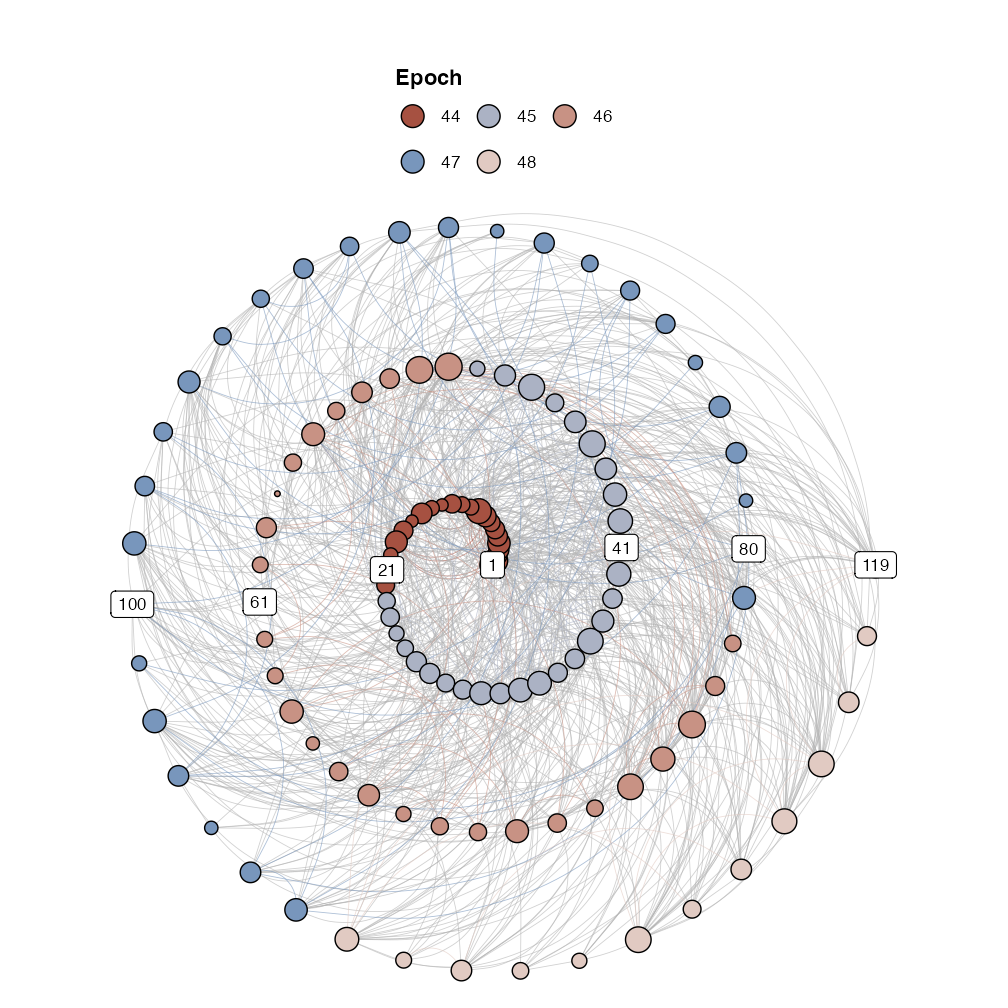
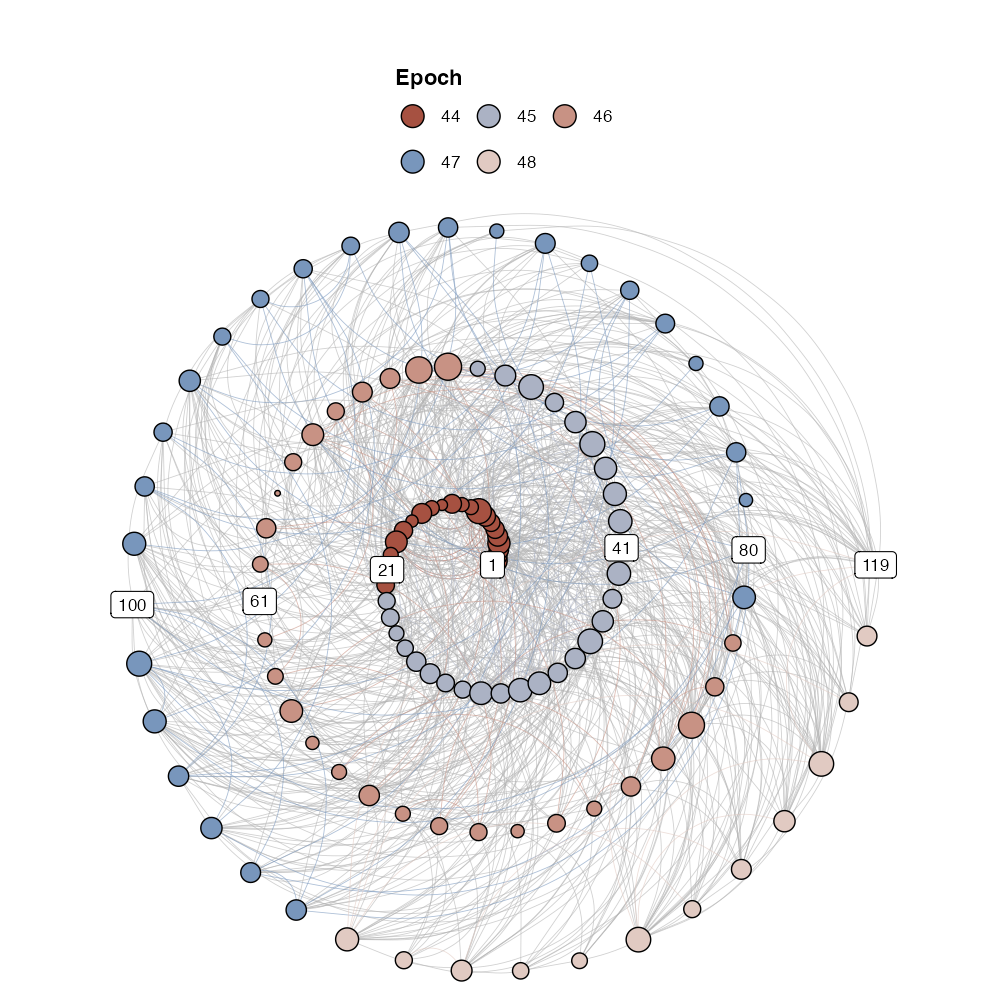
rp update

diff --git a/docs/articles/RecurrenceNetworks.html b/docs/articles/RecurrenceNetworks.html
@@ -186,15 +186,15 @@
 <span id="cb7-5"><a href="#cb7-5" aria-hidden="true" tabindex="-1"></a><span class="er">&gt;</span> <span class="er">~~~</span>o<span class="sc">~</span><span class="er">~</span>o<span class="sc">~</span><span class="er">~</span>casnet<span class="sc">~</span><span class="er">~</span>o<span class="sc">~</span><span class="er">~</span>o<span class="sc">~</span><span class="er">~~</span></span>
 <span id="cb7-6"><a href="#cb7-6" aria-hidden="true" tabindex="-1"></a><span class="er">&gt;</span>  Global Measures</span>
 <span id="cb7-7"><a href="#cb7-7" aria-hidden="true" tabindex="-1"></a><span class="sc">&gt;</span>   Global Max.points N.points    RR Singular Divergence Repetitiveness</span>
-<span id="cb7-8"><a href="#cb7-8" aria-hidden="true" tabindex="-1"></a><span class="sc">&gt;</span> <span class="dv">1</span> Matrix      <span class="dv">14161</span>     <span class="dv">1815</span> <span class="fl">0.128</span>     <span class="dv">1224</span>     <span class="fl">0.0084</span>           <span class="fl">2.23</span></span>
+<span id="cb7-8"><a href="#cb7-8" aria-hidden="true" tabindex="-1"></a><span class="sc">&gt;</span> <span class="dv">1</span> Matrix      <span class="dv">14161</span>     <span class="dv">1741</span> <span class="fl">0.123</span>     <span class="dv">1220</span>     <span class="fl">0.0084</span>           <span class="fl">2.36</span></span>
 <span id="cb7-9"><a href="#cb7-9" aria-hidden="true" tabindex="-1"></a><span class="sc">&gt;</span> </span>
 <span id="cb7-10"><a href="#cb7-10" aria-hidden="true" tabindex="-1"></a><span class="er">&gt;</span> </span>
 <span id="cb7-11"><a href="#cb7-11" aria-hidden="true" tabindex="-1"></a><span class="er">&gt;</span>  Line<span class="sc">-</span>based Measures</span>
 <span id="cb7-12"><a href="#cb7-12" aria-hidden="true" tabindex="-1"></a><span class="sc">&gt;</span>        Lines N.lines N.points Measure  Rate Mean Max.   ENT ENT_rel   CoV</span>
-<span id="cb7-13"><a href="#cb7-13" aria-hidden="true" tabindex="-1"></a><span class="sc">&gt;</span> <span class="dv">1</span>   Diagonal     <span class="dv">211</span>      <span class="dv">591</span>     DET <span class="fl">0.326</span> <span class="fl">2.80</span>  <span class="dv">119</span> <span class="fl">0.512</span>   <span class="fl">0.107</span> <span class="fl">2.890</span></span>
-<span id="cb7-14"><a href="#cb7-14" aria-hidden="true" tabindex="-1"></a><span class="sc">&gt;</span> <span class="dv">2</span>   Vertical     <span class="dv">292</span>      <span class="dv">660</span>   V LAM <span class="fl">0.364</span> <span class="fl">2.26</span>    <span class="dv">6</span> <span class="fl">0.631</span>   <span class="fl">0.132</span> <span class="fl">0.280</span></span>
-<span id="cb7-15"><a href="#cb7-15" aria-hidden="true" tabindex="-1"></a><span class="sc">&gt;</span> <span class="dv">3</span> Horizontal     <span class="dv">292</span>      <span class="dv">660</span>   H LAM <span class="fl">0.364</span> <span class="fl">2.26</span>    <span class="dv">6</span> <span class="fl">0.631</span>   <span class="fl">0.132</span> <span class="fl">0.280</span></span>
-<span id="cb7-16"><a href="#cb7-16" aria-hidden="true" tabindex="-1"></a><span class="sc">&gt;</span> <span class="dv">4</span>  V<span class="sc">+</span>H Total     <span class="dv">584</span>     <span class="dv">1320</span> V<span class="sc">+</span>H LAM <span class="fl">0.364</span> <span class="fl">2.26</span>    <span class="dv">6</span> <span class="fl">0.631</span>   <span class="fl">0.132</span> <span class="fl">0.279</span></span>
+<span id="cb7-13"><a href="#cb7-13" aria-hidden="true" tabindex="-1"></a><span class="sc">&gt;</span> <span class="dv">1</span>   Diagonal     <span class="dv">177</span>      <span class="dv">521</span>     DET <span class="fl">0.299</span> <span class="fl">2.94</span>  <span class="dv">119</span> <span class="fl">0.564</span>   <span class="fl">0.118</span> <span class="fl">3.001</span></span>
+<span id="cb7-14"><a href="#cb7-14" aria-hidden="true" tabindex="-1"></a><span class="sc">&gt;</span> <span class="dv">2</span>   Vertical     <span class="dv">280</span>      <span class="dv">614</span>   V LAM <span class="fl">0.353</span> <span class="fl">2.19</span>    <span class="dv">6</span> <span class="fl">0.508</span>   <span class="fl">0.106</span> <span class="fl">0.250</span></span>
+<span id="cb7-15"><a href="#cb7-15" aria-hidden="true" tabindex="-1"></a><span class="sc">&gt;</span> <span class="dv">3</span> Horizontal     <span class="dv">280</span>      <span class="dv">614</span>   H LAM <span class="fl">0.353</span> <span class="fl">2.19</span>    <span class="dv">6</span> <span class="fl">0.508</span>   <span class="fl">0.106</span> <span class="fl">0.250</span></span>
+<span id="cb7-16"><a href="#cb7-16" aria-hidden="true" tabindex="-1"></a><span class="sc">&gt;</span> <span class="dv">4</span>  V<span class="sc">+</span>H Total     <span class="dv">560</span>     <span class="dv">1228</span> V<span class="sc">+</span>H LAM <span class="fl">0.353</span> <span class="fl">2.19</span>    <span class="dv">6</span> <span class="fl">0.508</span>   <span class="fl">0.106</span> <span class="fl">0.249</span></span>
 <span id="cb7-17"><a href="#cb7-17" aria-hidden="true" tabindex="-1"></a><span class="sc">&gt;</span> </span>
 <span id="cb7-18"><a href="#cb7-18" aria-hidden="true" tabindex="-1"></a><span class="er">&gt;</span> <span class="er">~~~</span>o<span class="sc">~</span><span class="er">~</span>o<span class="sc">~</span><span class="er">~</span>casnet<span class="sc">~</span><span class="er">~</span>o<span class="sc">~</span><span class="er">~</span>o<span class="sc">~</span><span class="er">~~</span></span>
 <span id="cb7-19"><a href="#cb7-19" aria-hidden="true" tabindex="-1"></a></span>
@@ -216,9 +216,9 @@
 <span id="cb8-9"><a href="#cb8-9" aria-hidden="true" tabindex="-1"></a><span class="er">&gt;</span> Global Network Measures</span>
 <span id="cb8-10"><a href="#cb8-10" aria-hidden="true" tabindex="-1"></a><span class="sc">&gt;</span> </span>
 <span id="cb8-11"><a href="#cb8-11" aria-hidden="true" tabindex="-1"></a><span class="er">&gt;</span>   EdgeDensity MeanStrengthDensity GlobalClustering NetworkTransitivity</span>
-<span id="cb8-12"><a href="#cb8-12" aria-hidden="true" tabindex="-1"></a><span class="sc">&gt;</span> <span class="dv">1</span>   <span class="fl">0.1207805</span>                  <span class="cn">NA</span>        <span class="fl">0.6870866</span>           <span class="fl">0.6780764</span></span>
+<span id="cb8-12"><a href="#cb8-12" aria-hidden="true" tabindex="-1"></a><span class="sc">&gt;</span> <span class="dv">1</span>   <span class="fl">0.1155106</span>                  <span class="cn">NA</span>        <span class="fl">0.6819117</span>           <span class="fl">0.6646402</span></span>
 <span id="cb8-13"><a href="#cb8-13" aria-hidden="true" tabindex="-1"></a><span class="sc">&gt;</span>   AveragePathLength GlobalEfficiency</span>
-<span id="cb8-14"><a href="#cb8-14" aria-hidden="true" tabindex="-1"></a><span class="sc">&gt;</span> <span class="dv">1</span>          <span class="fl">5.977211</span>         <span class="fl">2.840714</span></span>
+<span id="cb8-14"><a href="#cb8-14" aria-hidden="true" tabindex="-1"></a><span class="sc">&gt;</span> <span class="dv">1</span>          <span class="fl">5.926933</span>         <span class="fl">2.861346</span></span>
 <span id="cb8-15"><a href="#cb8-15" aria-hidden="true" tabindex="-1"></a><span class="sc">&gt;</span> </span>
 <span id="cb8-16"><a href="#cb8-16" aria-hidden="true" tabindex="-1"></a><span class="er">&gt;</span> <span class="er">~~~</span>o<span class="sc">~</span><span class="er">~</span>o<span class="sc">~</span><span class="er">~</span>casnet<span class="sc">~</span><span class="er">~</span>o<span class="sc">~</span><span class="er">~</span>o<span class="sc">~</span><span class="er">~~</span></span>
 <span id="cb8-17"><a href="#cb8-17" aria-hidden="true" tabindex="-1"></a></span>

diff --git a/docs/reference/bandReplace.html b/docs/reference/bandReplace.html
@@ -115,28 +115,28 @@
 <span class="r-in"></span>
 <span class="r-in"><span class="fu">bandReplace</span><span class="op">(</span><span class="va">m</span>,<span class="op">-</span><span class="fl">1</span>,<span class="fl">1</span>,<span class="fl">0</span><span class="op">)</span>   <span class="co"># Replace diagonal and adjacent bands with 0 (Theiler window of 1)</span></span>
 <span class="r-out co"><span class="r-pr">#&gt;</span> 10 x 10 sparse Matrix of class "dgCMatrix"</span>
-<span class="r-out co"><span class="r-pr">#&gt;</span>                                                                            </span>
-<span class="r-out co"><span class="r-pr">#&gt;</span>  [1,]  .          .          0.03679358  0.03679358  0.03679358  0.03679358</span>
-<span class="r-out co"><span class="r-pr">#&gt;</span>  [2,]  .          .          .          -0.17680032 -0.17680032 -0.17680032</span>
-<span class="r-out co"><span class="r-pr">#&gt;</span>  [3,] -0.4185294  .          .           .          -0.41852936 -0.41852936</span>
-<span class="r-out co"><span class="r-pr">#&gt;</span>  [4,] -0.5376333 -0.5376333  .           .           .          -0.53763329</span>
-<span class="r-out co"><span class="r-pr">#&gt;</span>  [5,] -0.2396185 -0.2396185 -0.23961850  .           .           .         </span>
-<span class="r-out co"><span class="r-pr">#&gt;</span>  [6,]  0.6451261  0.6451261  0.64512606  0.64512606  .           .         </span>
-<span class="r-out co"><span class="r-pr">#&gt;</span>  [7,] -1.5134342 -1.5134342 -1.51343424 -1.51343424 -1.51343424  .         </span>
-<span class="r-out co"><span class="r-pr">#&gt;</span>  [8,] -0.2137182 -0.2137182 -0.21371821 -0.21371821 -0.21371821 -0.21371821</span>
-<span class="r-out co"><span class="r-pr">#&gt;</span>  [9,]  0.4949470  0.4949470  0.49494698  0.49494698  0.49494698  0.49494698</span>
-<span class="r-out co"><span class="r-pr">#&gt;</span> [10,]  0.8303006  0.8303006  0.83030063  0.83030063  0.83030063  0.83030063</span>
-<span class="r-out co"><span class="r-pr">#&gt;</span>                                                      </span>
-<span class="r-out co"><span class="r-pr">#&gt;</span>  [1,]  0.03679358  0.03679358  0.03679358  0.03679358</span>
-<span class="r-out co"><span class="r-pr">#&gt;</span>  [2,] -0.17680032 -0.17680032 -0.17680032 -0.17680032</span>
-<span class="r-out co"><span class="r-pr">#&gt;</span>  [3,] -0.41852936 -0.41852936 -0.41852936 -0.41852936</span>
-<span class="r-out co"><span class="r-pr">#&gt;</span>  [4,] -0.53763329 -0.53763329 -0.53763329 -0.53763329</span>
-<span class="r-out co"><span class="r-pr">#&gt;</span>  [5,] -0.23961850 -0.23961850 -0.23961850 -0.23961850</span>
-<span class="r-out co"><span class="r-pr">#&gt;</span>  [6,]  .           0.64512606  0.64512606  0.64512606</span>
-<span class="r-out co"><span class="r-pr">#&gt;</span>  [7,]  .           .          -1.51343424 -1.51343424</span>
-<span class="r-out co"><span class="r-pr">#&gt;</span>  [8,]  .           .           .          -0.21371821</span>
-<span class="r-out co"><span class="r-pr">#&gt;</span>  [9,]  0.49494698  .           .           .         </span>
-<span class="r-out co"><span class="r-pr">#&gt;</span> [10,]  0.83030063  0.83030063  .           .         </span>
+<span class="r-out co"><span class="r-pr">#&gt;</span>                                                                        </span>
+<span class="r-out co"><span class="r-pr">#&gt;</span>  [1,]  .          .         -0.6091668 -0.6091668 -0.6091668 -0.6091668</span>
+<span class="r-out co"><span class="r-pr">#&gt;</span>  [2,]  .          .          .         -0.8998949 -0.8998949 -0.8998949</span>
+<span class="r-out co"><span class="r-pr">#&gt;</span>  [3,]  0.7485807  .          .          .          0.7485807  0.7485807</span>
+<span class="r-out co"><span class="r-pr">#&gt;</span>  [4,]  1.1334360  1.1334360  .          .          .          1.1334360</span>
+<span class="r-out co"><span class="r-pr">#&gt;</span>  [5,] -1.2001478 -1.2001478 -1.2001478  .          .          .        </span>
+<span class="r-out co"><span class="r-pr">#&gt;</span>  [6,]  0.7164424  0.7164424  0.7164424  0.7164424  .          .        </span>
+<span class="r-out co"><span class="r-pr">#&gt;</span>  [7,] -1.0455786 -1.0455786 -1.0455786 -1.0455786 -1.0455786  .        </span>
+<span class="r-out co"><span class="r-pr">#&gt;</span>  [8,]  0.3057090  0.3057090  0.3057090  0.3057090  0.3057090  0.3057090</span>
+<span class="r-out co"><span class="r-pr">#&gt;</span>  [9,] -0.3727348 -0.3727348 -0.3727348 -0.3727348 -0.3727348 -0.3727348</span>
+<span class="r-out co"><span class="r-pr">#&gt;</span> [10,]  0.1182736  0.1182736  0.1182736  0.1182736  0.1182736  0.1182736</span>
+<span class="r-out co"><span class="r-pr">#&gt;</span>                                                  </span>
+<span class="r-out co"><span class="r-pr">#&gt;</span>  [1,] -0.6091668 -0.6091668 -0.6091668 -0.6091668</span>
+<span class="r-out co"><span class="r-pr">#&gt;</span>  [2,] -0.8998949 -0.8998949 -0.8998949 -0.8998949</span>
+<span class="r-out co"><span class="r-pr">#&gt;</span>  [3,]  0.7485807  0.7485807  0.7485807  0.7485807</span>
+<span class="r-out co"><span class="r-pr">#&gt;</span>  [4,]  1.1334360  1.1334360  1.1334360  1.1334360</span>
+<span class="r-out co"><span class="r-pr">#&gt;</span>  [5,] -1.2001478 -1.2001478 -1.2001478 -1.2001478</span>
+<span class="r-out co"><span class="r-pr">#&gt;</span>  [6,]  .          0.7164424  0.7164424  0.7164424</span>
+<span class="r-out co"><span class="r-pr">#&gt;</span>  [7,]  .          .         -1.0455786 -1.0455786</span>
+<span class="r-out co"><span class="r-pr">#&gt;</span>  [8,]  .          .          .          0.3057090</span>
+<span class="r-out co"><span class="r-pr">#&gt;</span>  [9,] -0.3727348  .          .          .        </span>
+<span class="r-out co"><span class="r-pr">#&gt;</span> [10,]  0.1182736  0.1182736  .          .        </span>
 </code></pre></div>
     </div>
   </div>

diff --git a/docs/reference/as.numeric_discrete.html b/docs/reference/as.numeric_discrete.html
@@ -92,22 +92,22 @@
 <span class="r-in"><span class="co"># Continuous</span></span>
 <span class="r-in"><span class="va">i</span> <span class="op">&lt;-</span> <span class="fu"><a href="https://rdrr.io/r/stats/Uniform.html" class="external-link">runif</a></span><span class="op">(</span><span class="fl">10</span>,<span class="fl">0</span>,<span class="fl">9</span><span class="op">)</span></span>
 <span class="r-in"><span class="fu">as.numeric_discrete</span><span class="op">(</span><span class="va">i</span><span class="op">)</span></span>
-<span class="r-out co"><span class="r-pr">#&gt;</span>   6.59  3.298  6.125  8.394 0.3611  8.561  5.577  3.149  6.534  4.561 </span>
-<span class="r-out co"><span class="r-pr">#&gt;</span>      4      2      4      5      1      5      4      2      4      3 </span>
+<span class="r-out co"><span class="r-pr">#&gt;</span>  3.202  7.723  0.447  7.575  6.542  5.151  6.077 0.2053  5.261 0.3174 </span>
+<span class="r-out co"><span class="r-pr">#&gt;</span>      2      5      1      5      5      4      4      1      4      1 </span>
 <span class="r-in"></span>
 <span class="r-in"><span class="co"># Integer</span></span>
 <span class="r-in"><span class="fu">as.numeric_discrete</span><span class="op">(</span><span class="fu"><a href="https://rdrr.io/r/base/Round.html" class="external-link">round</a></span><span class="op">(</span><span class="va">i</span><span class="op">)</span><span class="op">)</span></span>
-<span class="r-out co"><span class="r-pr">#&gt;</span> 7 3 6 8 0 9 6 3 7 5 </span>
-<span class="r-out co"><span class="r-pr">#&gt;</span> 7 3 6 8 0 9 6 3 7 5 </span>
+<span class="r-out co"><span class="r-pr">#&gt;</span> 3 8 0 8 7 5 6 0 5 0 </span>
+<span class="r-out co"><span class="r-pr">#&gt;</span> 3 8 0 8 7 5 6 0 5 0 </span>
 <span class="r-in"></span>
 <span class="r-in"><span class="co"># Factor with NAs</span></span>
 <span class="r-in"><span class="va">f</span> <span class="op">&lt;-</span> <span class="fu"><a href="https://rdrr.io/r/base/factor.html" class="external-link">factor</a></span><span class="op">(</span><span class="fu"><a href="https://rdrr.io/r/base/c.html" class="external-link">c</a></span><span class="op">(</span><span class="fu"><a href="https://rdrr.io/r/base/Round.html" class="external-link">round</a></span><span class="op">(</span><span class="fu"><a href="https://rdrr.io/r/stats/Uniform.html" class="external-link">runif</a></span><span class="op">(</span><span class="fl">9</span>,<span class="fl">0</span>,<span class="fl">9</span><span class="op">)</span><span class="op">)</span>,<span class="cn">NA</span><span class="op">)</span><span class="op">)</span></span>
 <span class="r-in"><span class="fu">as.numeric_discrete</span><span class="op">(</span><span class="va">f</span><span class="op">)</span></span>
-<span class="r-out co"><span class="r-pr">#&gt;</span> 7 0 6 2 6 1 5 4 4 </span>
-<span class="r-out co"><span class="r-pr">#&gt;</span> 7 0 6 2 6 1 5 4 4 </span>
+<span class="r-out co"><span class="r-pr">#&gt;</span> 7 5 0 8 8 4 7 4 1 </span>
+<span class="r-out co"><span class="r-pr">#&gt;</span> 7 5 0 8 8 4 7 4 1 </span>
 <span class="r-in"><span class="fu">as.numeric_discrete</span><span class="op">(</span><span class="va">f</span>, keepNA <span class="op">=</span> <span class="cn">FALSE</span><span class="op">)</span></span>
-<span class="r-out co"><span class="r-pr">#&gt;</span> 7 0 6 2 6 1 5 4 4 </span>
-<span class="r-out co"><span class="r-pr">#&gt;</span> 7 0 6 2 6 1 5 4 4 </span>
+<span class="r-out co"><span class="r-pr">#&gt;</span> 7 5 0 8 8 4 7 4 1 </span>
+<span class="r-out co"><span class="r-pr">#&gt;</span> 7 5 0 8 8 4 7 4 1 </span>
 <span class="r-in"></span>
 <span class="r-in"><span class="co"># Character vector</span></span>
 <span class="r-in"><span class="va">c</span> <span class="op">&lt;-</span> <span class="fu"><a href="https://rdrr.io/r/base/c.html" class="external-link">c</a></span><span class="op">(</span><span class="st">"Thank"</span>,<span class="st">"you"</span>, <span class="st">"for"</span>, <span class="st">"the flowers"</span><span class="op">)</span></span>

diff --git a/docs/reference/as.numeric_factor.html b/docs/reference/as.numeric_factor.html
@@ -91,17 +91,17 @@
     <div class="sourceCode"><pre class="sourceCode r"><code><span class="r-in"></span>
 <span class="r-in"><span class="va">f</span> <span class="op">&lt;-</span> <span class="fu"><a href="https://rdrr.io/r/base/factor.html" class="external-link">factor</a></span><span class="op">(</span><span class="fu"><a href="https://rdrr.io/r/base/Round.html" class="external-link">round</a></span><span class="op">(</span><span class="fu"><a href="https://rdrr.io/r/stats/Uniform.html" class="external-link">runif</a></span><span class="op">(</span><span class="fl">10</span>,<span class="fl">0</span>,<span class="fl">9</span><span class="op">)</span><span class="op">)</span><span class="op">)</span></span>
 <span class="r-in"><span class="fu">as.numeric_factor</span><span class="op">(</span><span class="va">f</span><span class="op">)</span></span>
-<span class="r-out co"><span class="r-pr">#&gt;</span> 8 2 5 9 2 7 7 9 8 3 </span>
-<span class="r-out co"><span class="r-pr">#&gt;</span> 8 2 5 9 2 7 7 9 8 3 </span>
+<span class="r-out co"><span class="r-pr">#&gt;</span> 2 9 4 5 3 9 5 5 9 4 </span>
+<span class="r-out co"><span class="r-pr">#&gt;</span> 2 9 4 5 3 9 5 5 9 4 </span>
 <span class="r-in"></span>
 <span class="r-in"><span class="co"># Add NAs</span></span>
 <span class="r-in"><span class="va">f</span> <span class="op">&lt;-</span> <span class="fu"><a href="https://rdrr.io/r/base/factor.html" class="external-link">factor</a></span><span class="op">(</span><span class="fu"><a href="https://rdrr.io/r/base/c.html" class="external-link">c</a></span><span class="op">(</span><span class="fu"><a href="https://rdrr.io/r/base/Round.html" class="external-link">round</a></span><span class="op">(</span><span class="fu"><a href="https://rdrr.io/r/stats/Uniform.html" class="external-link">runif</a></span><span class="op">(</span><span class="fl">9</span>,<span class="fl">0</span>,<span class="fl">9</span><span class="op">)</span><span class="op">)</span>,<span class="cn">NA</span><span class="op">)</span><span class="op">)</span></span>
 <span class="r-in"><span class="fu">as.numeric_factor</span><span class="op">(</span><span class="va">f</span><span class="op">)</span></span>
-<span class="r-out co"><span class="r-pr">#&gt;</span> 1 4 8 2 8 0 8 7 5 </span>
-<span class="r-out co"><span class="r-pr">#&gt;</span> 1 4 8 2 8 0 8 7 5 </span>
+<span class="r-out co"><span class="r-pr">#&gt;</span> 8 3 4 6 1 2 1 0 3 </span>
+<span class="r-out co"><span class="r-pr">#&gt;</span> 8 3 4 6 1 2 1 0 3 </span>
 <span class="r-in"><span class="fu">as.numeric_factor</span><span class="op">(</span><span class="va">f</span>, keepNA <span class="op">=</span> <span class="cn">TRUE</span><span class="op">)</span></span>
-<span class="r-out co"><span class="r-pr">#&gt;</span>    1    4    8    2    8    0    8    7    5 &lt;NA&gt; </span>
-<span class="r-out co"><span class="r-pr">#&gt;</span>    1    4    8    2    8    0    8    7    5   NA </span>
+<span class="r-out co"><span class="r-pr">#&gt;</span>    8    3    4    6    1    2    1    0    3 &lt;NA&gt; </span>
+<span class="r-out co"><span class="r-pr">#&gt;</span>    8    3    4    6    1    2    1    0    3   NA </span>
 <span class="r-in"></span>
 <span class="r-in"></span>
 </code></pre></div>

diff --git a/docs/reference/rp_plot.html b/docs/reference/rp_plot.html
@@ -81,7 +81,7 @@
   markEpochsLOI <span class="op">=</span> <span class="cn">NULL</span>,
   radiusValue <span class="op">=</span> <span class="cn">NA</span>,
   courseGrain <span class="op">=</span> <span class="cn">TRUE</span>,
-  maxSize <span class="op">=</span> <span class="fl">500</span><span class="op">^</span><span class="fl">2</span>,
+  maxSize <span class="op">=</span> <span class="fl">1000</span><span class="op">^</span><span class="fl">2</span>,
   title <span class="op">=</span> <span class="st">""</span>,
   xlabel <span class="op">=</span> <span class="st">""</span>,
   ylabel <span class="op">=</span> <span class="st">""</span>,
